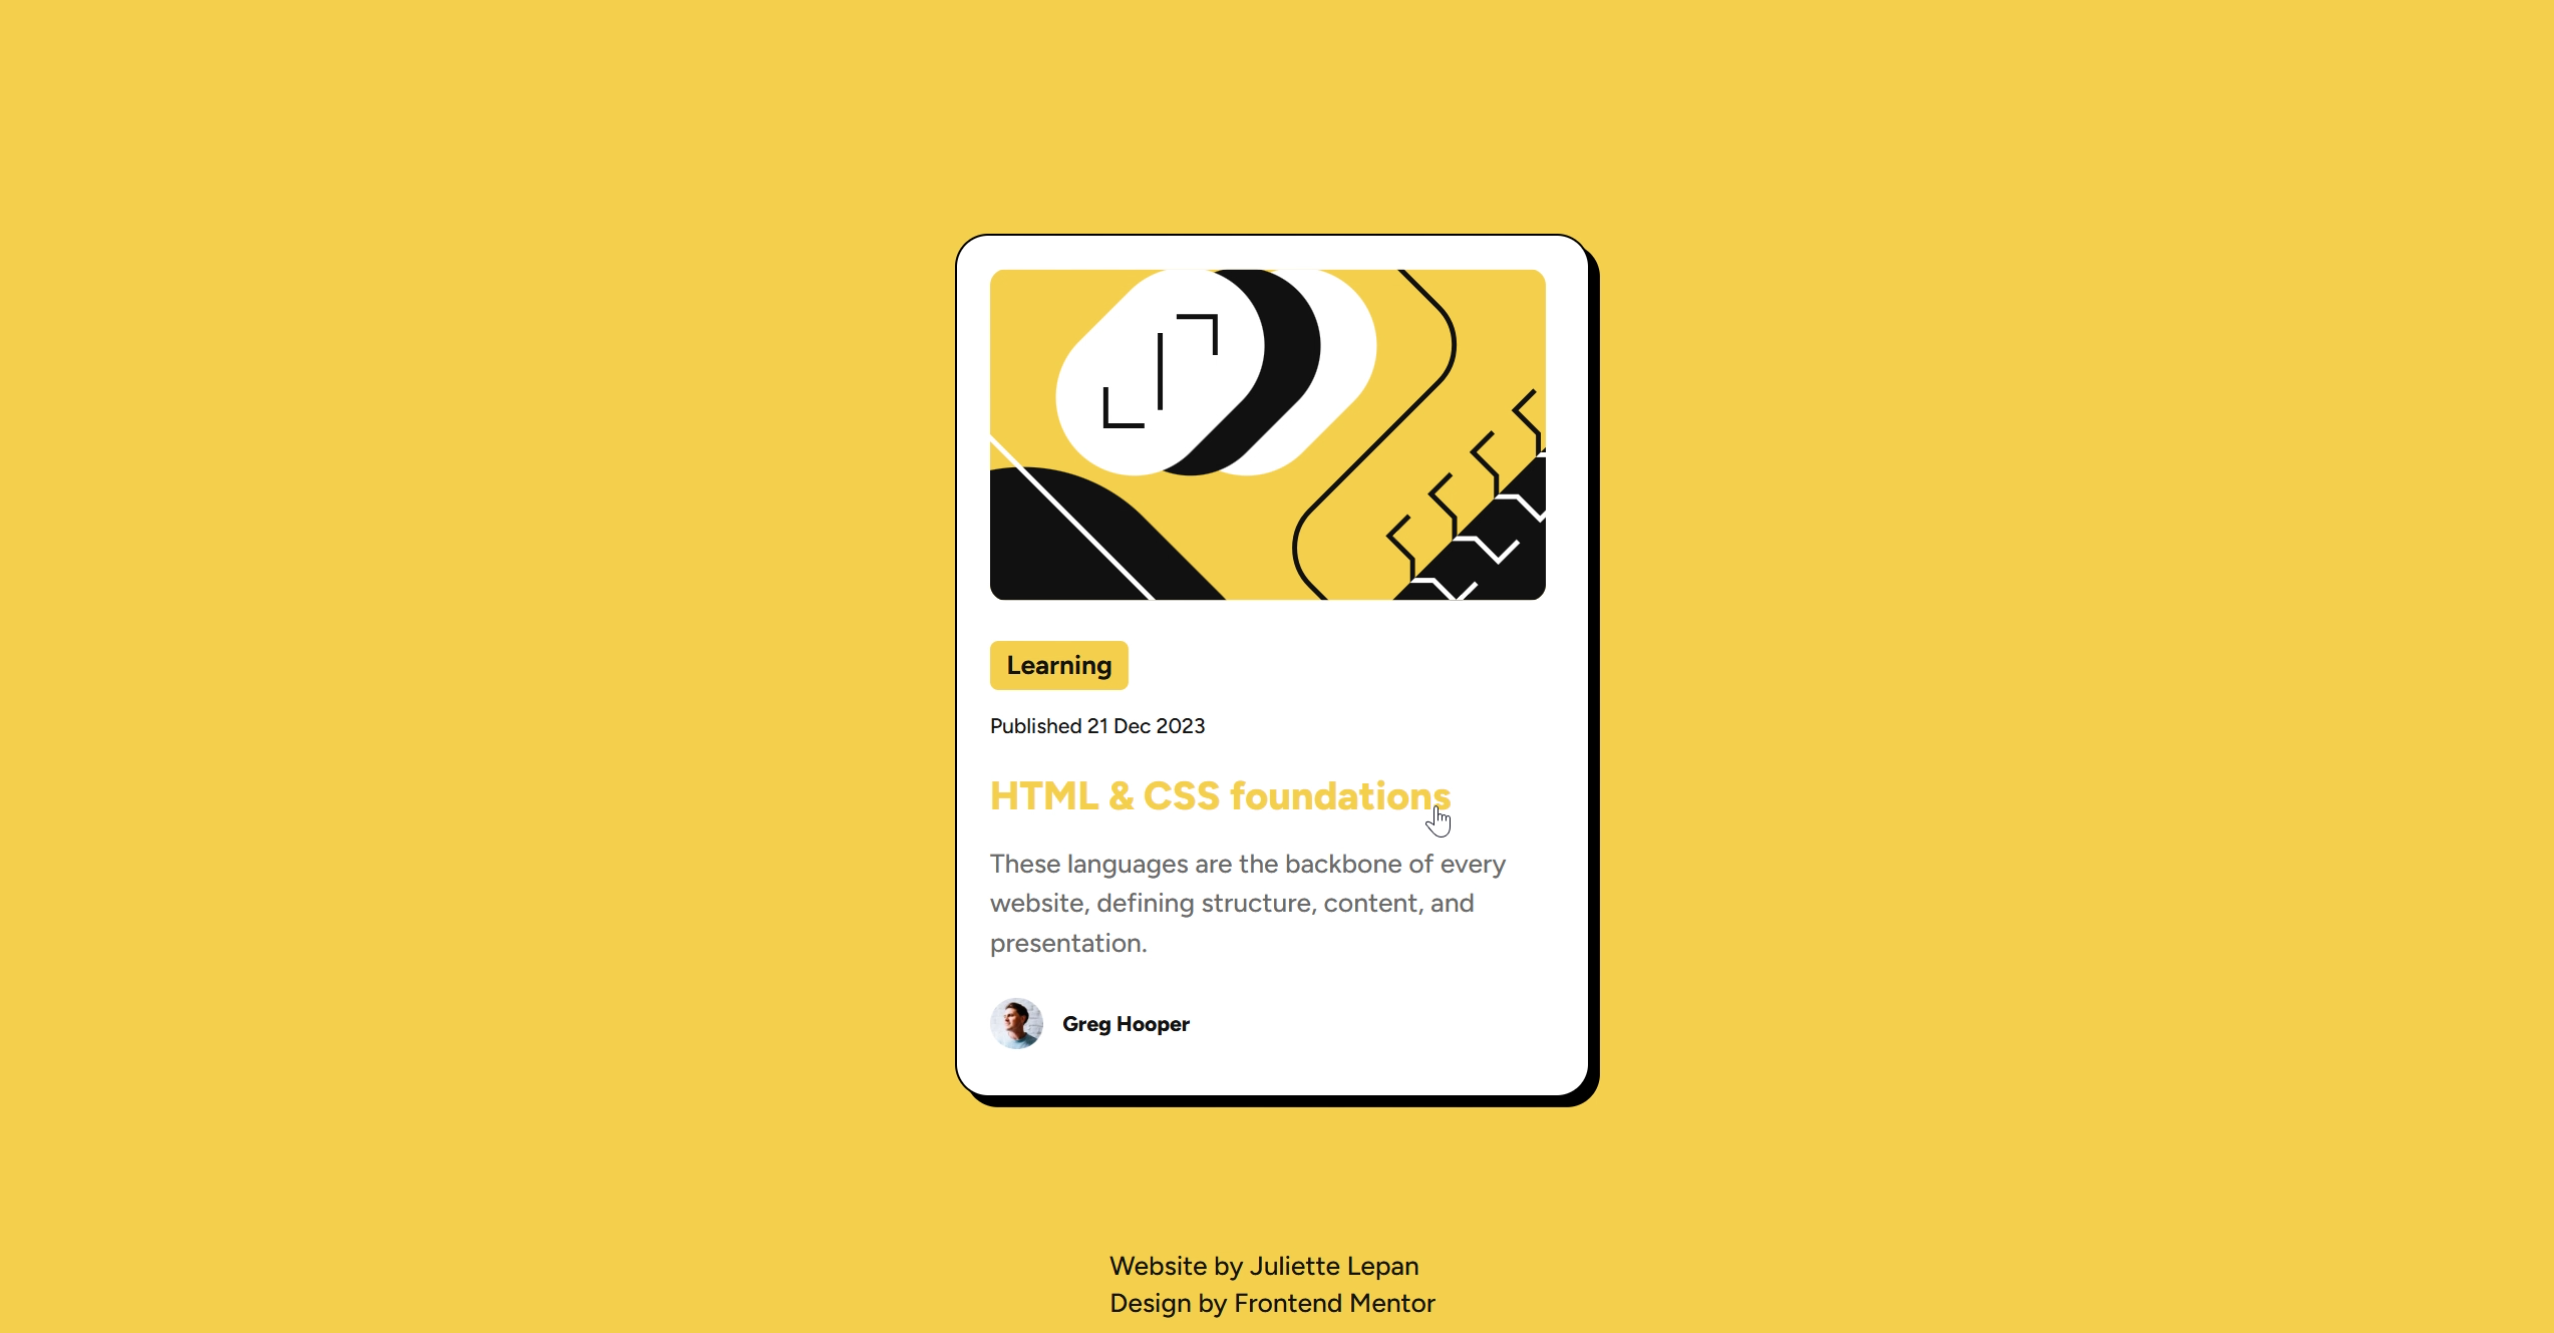
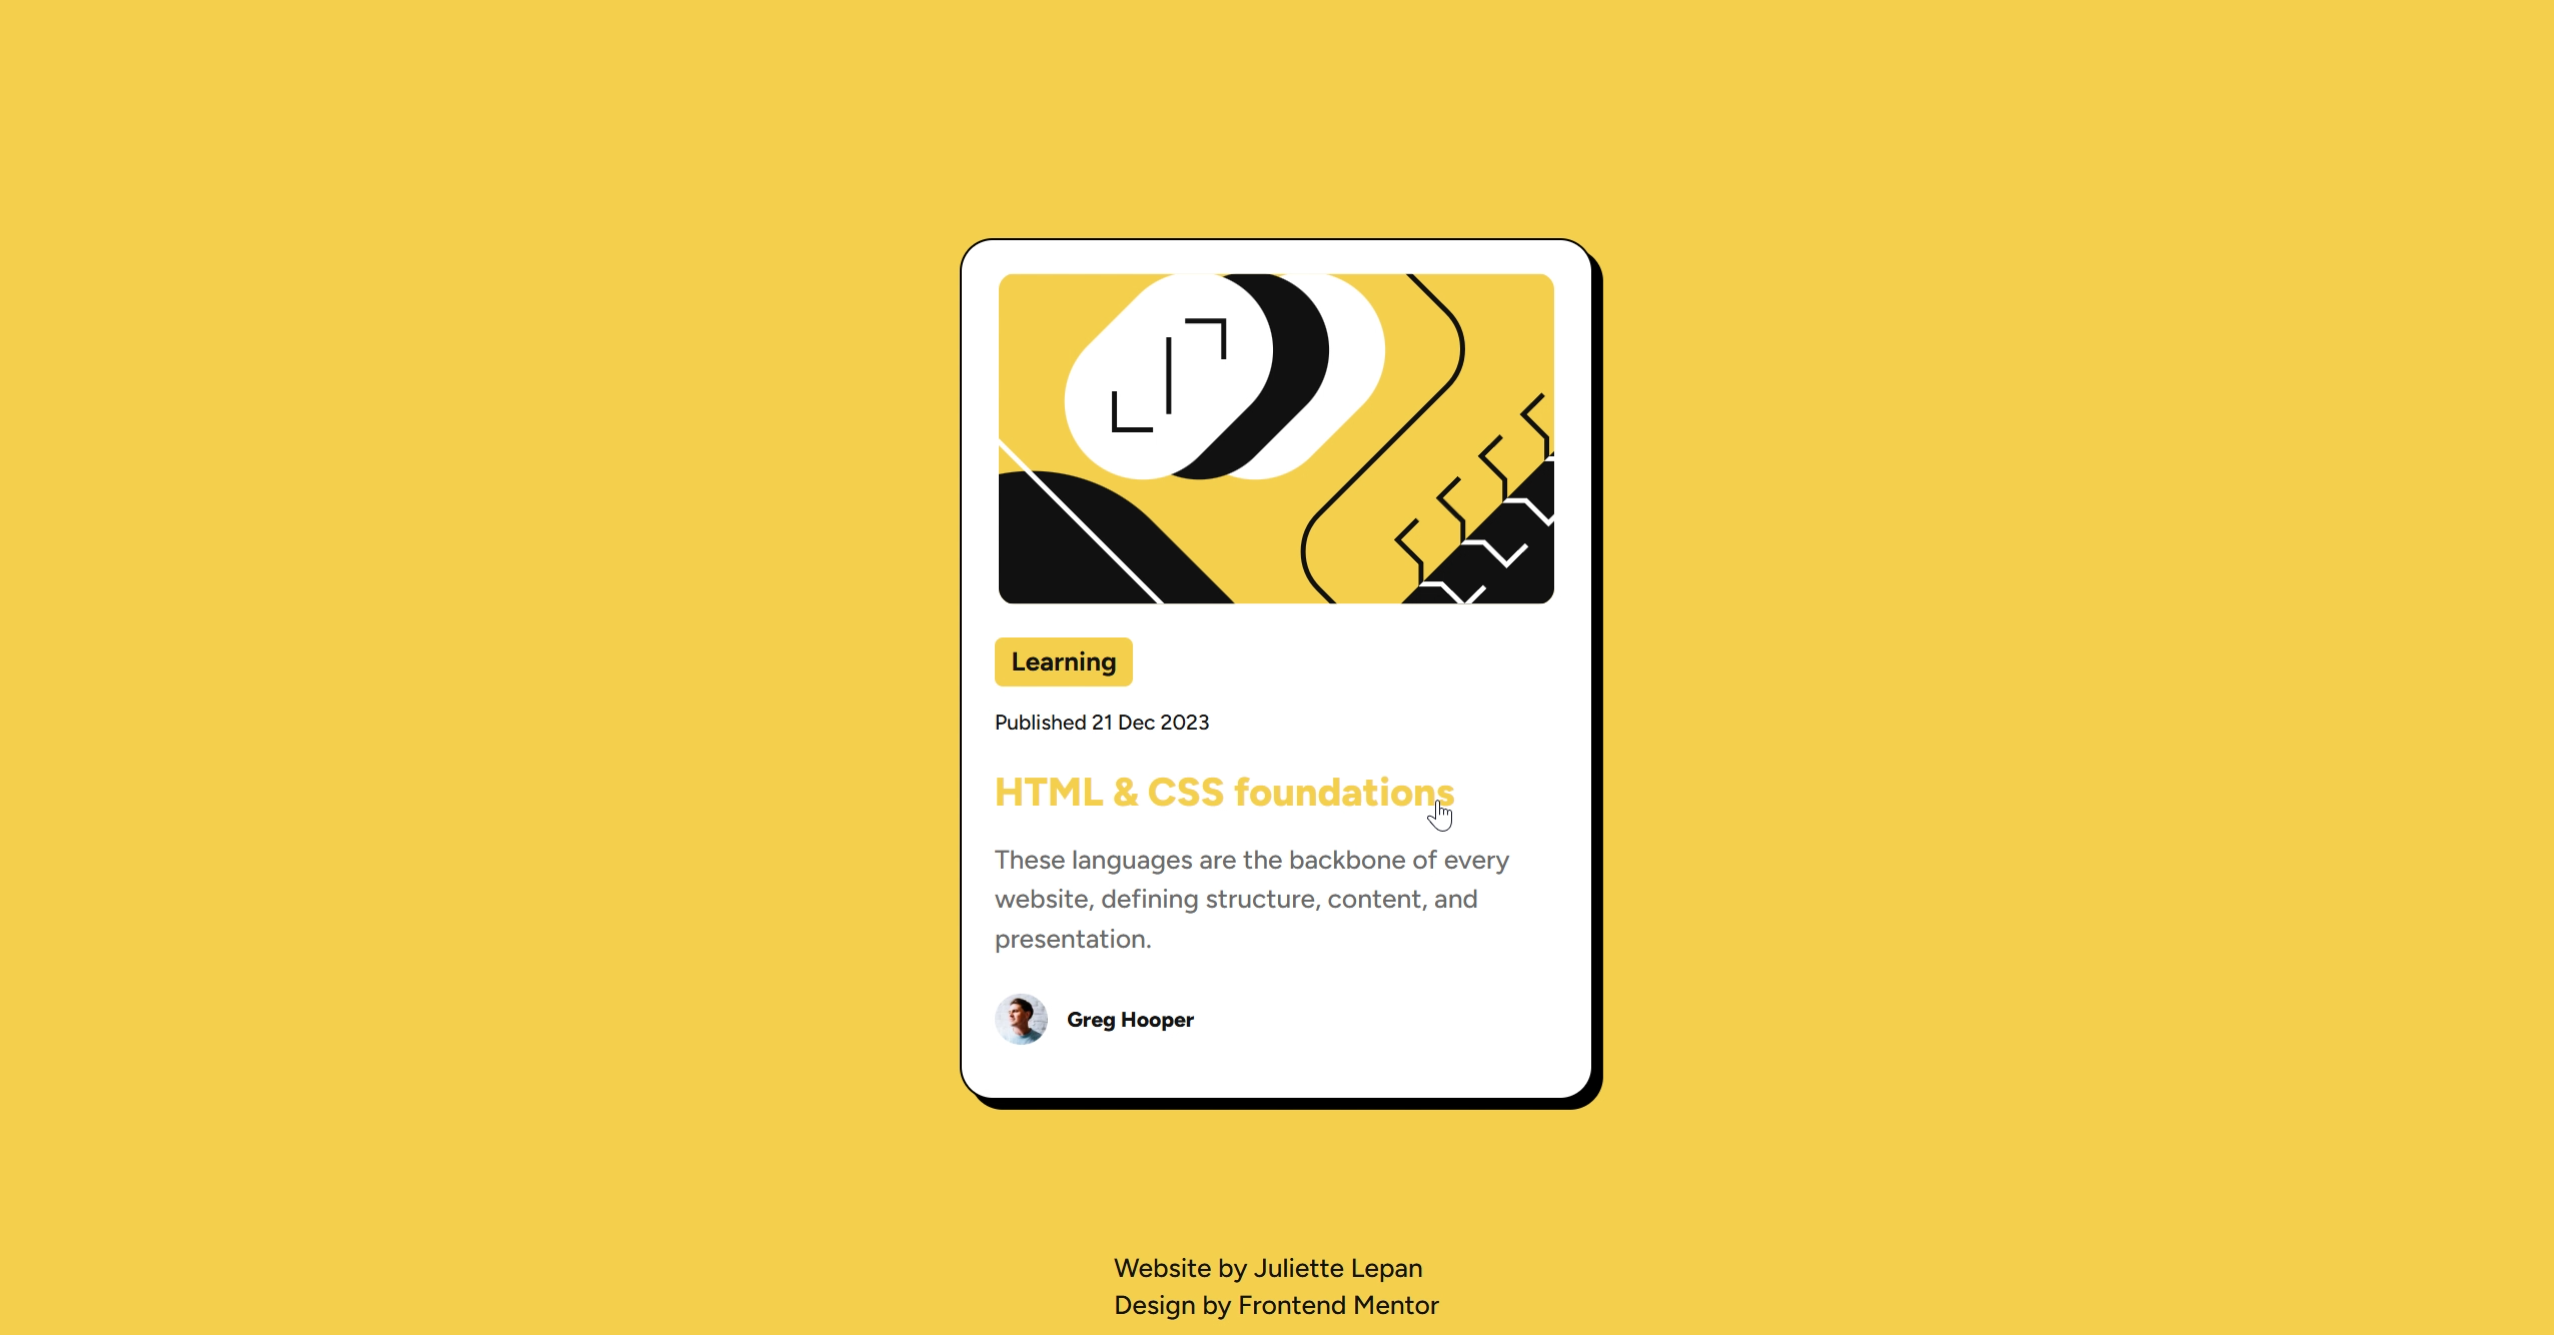
Update

Changed region(s): [[0.3712, 0.1538, 0.6496, 0.8305], [0.433, 0.9227, 0.5568, 0.9842]]

diff --git a/index.html b/index.html
@@ -8,21 +8,23 @@
     <link rel="stylesheet" href="style.css">
 </head>
 <body>
-    <article class="card">
-        <img class="illustration-article" src="img/illustration-article.svg" alt="random illustation">
-        <div class="category">
-            <a href="#">Learning</a>
-        </div>
-        <time datetime="2023-12-21">Published 21 Dec 2023</time>
-        <h1><a href="#">HTML &AMP; CSS foundations</a></h1>
-        <p class="description">
-            These languages are the backbone of every website, defining structure, content, and presentation.
-        </p>
-        <div class="writer">
-            <img src="img/image-avatar.webp" alt="photography of Greg Hooper">
-            <a href="#">Greg Hooper</a>
-        </div>
-    </article>
+    <main>
+        <article class="card">
+            <img class="illustration-article" src="img/illustration-article.svg" alt="random illustation">
+            <div class="category">
+                <a href="#">Learning</a>
+            </div>
+            <time datetime="2023-12-21">Published 21 Dec 2023</time>
+            <h1><a href="#">HTML &AMP; CSS foundations</a></h1>
+            <p class="description">
+                These languages are the backbone of every website, defining structure, content, and presentation.
+            </p>
+            <div class="writer">
+                <img src="img/image-avatar.webp" alt="photography of Greg Hooper">
+                <a href="#">Greg Hooper</a>
+            </div>
+        </article>
+    </main>
     <footer>
         <p>Website by <a href="https://github.com/jlepan" target="_blank" rel="noopener noreferrer">Juliette Lepan</a></p>
         <p>Design by <a href="https://www.frontendmentor.io" target="_blank" rel="noopener noreferrer">Frontend Mentor</a></p>

diff --git a/style.css b/style.css
@@ -50,6 +50,8 @@ a, a:hover {
 }
 
 .illustration-article {
+    display: block;
+    margin: auto;
     border-radius: 10px;
     max-width: 100%;
 }
@@ -137,7 +139,7 @@ footer a:hover {
     }
 }
 
-@media only screen and (width: 1024px) and (height: 600px) {
+@media only screen and (max-height: 650px) {
     footer {
         right: 20px
     }

diff --git a/README.md b/README.md
@@ -22,7 +22,7 @@ Il consiste à créer une carte d'aperçu de blog en respectant une maquette don
 
 ![Aperçu de ma version mobile](https://github.com/jlepan/blog-preview-card/blob/main/apercu-projet/apercu-mobile.png)
 
-![Aperçu de ma version lorsque l'on passe sur les liens](https://github.com/jlepan/blog-preview-card/blob/main/apercu-projet/apercu-active-states.png)
+![Aperçu de ma version lorsque l'on passe sur les liens](https://github.com/jlepan/blog-preview-card/blob/main/apercu-projet/apercu-actives-states.png)
 
 ## Projet en ligne
 
